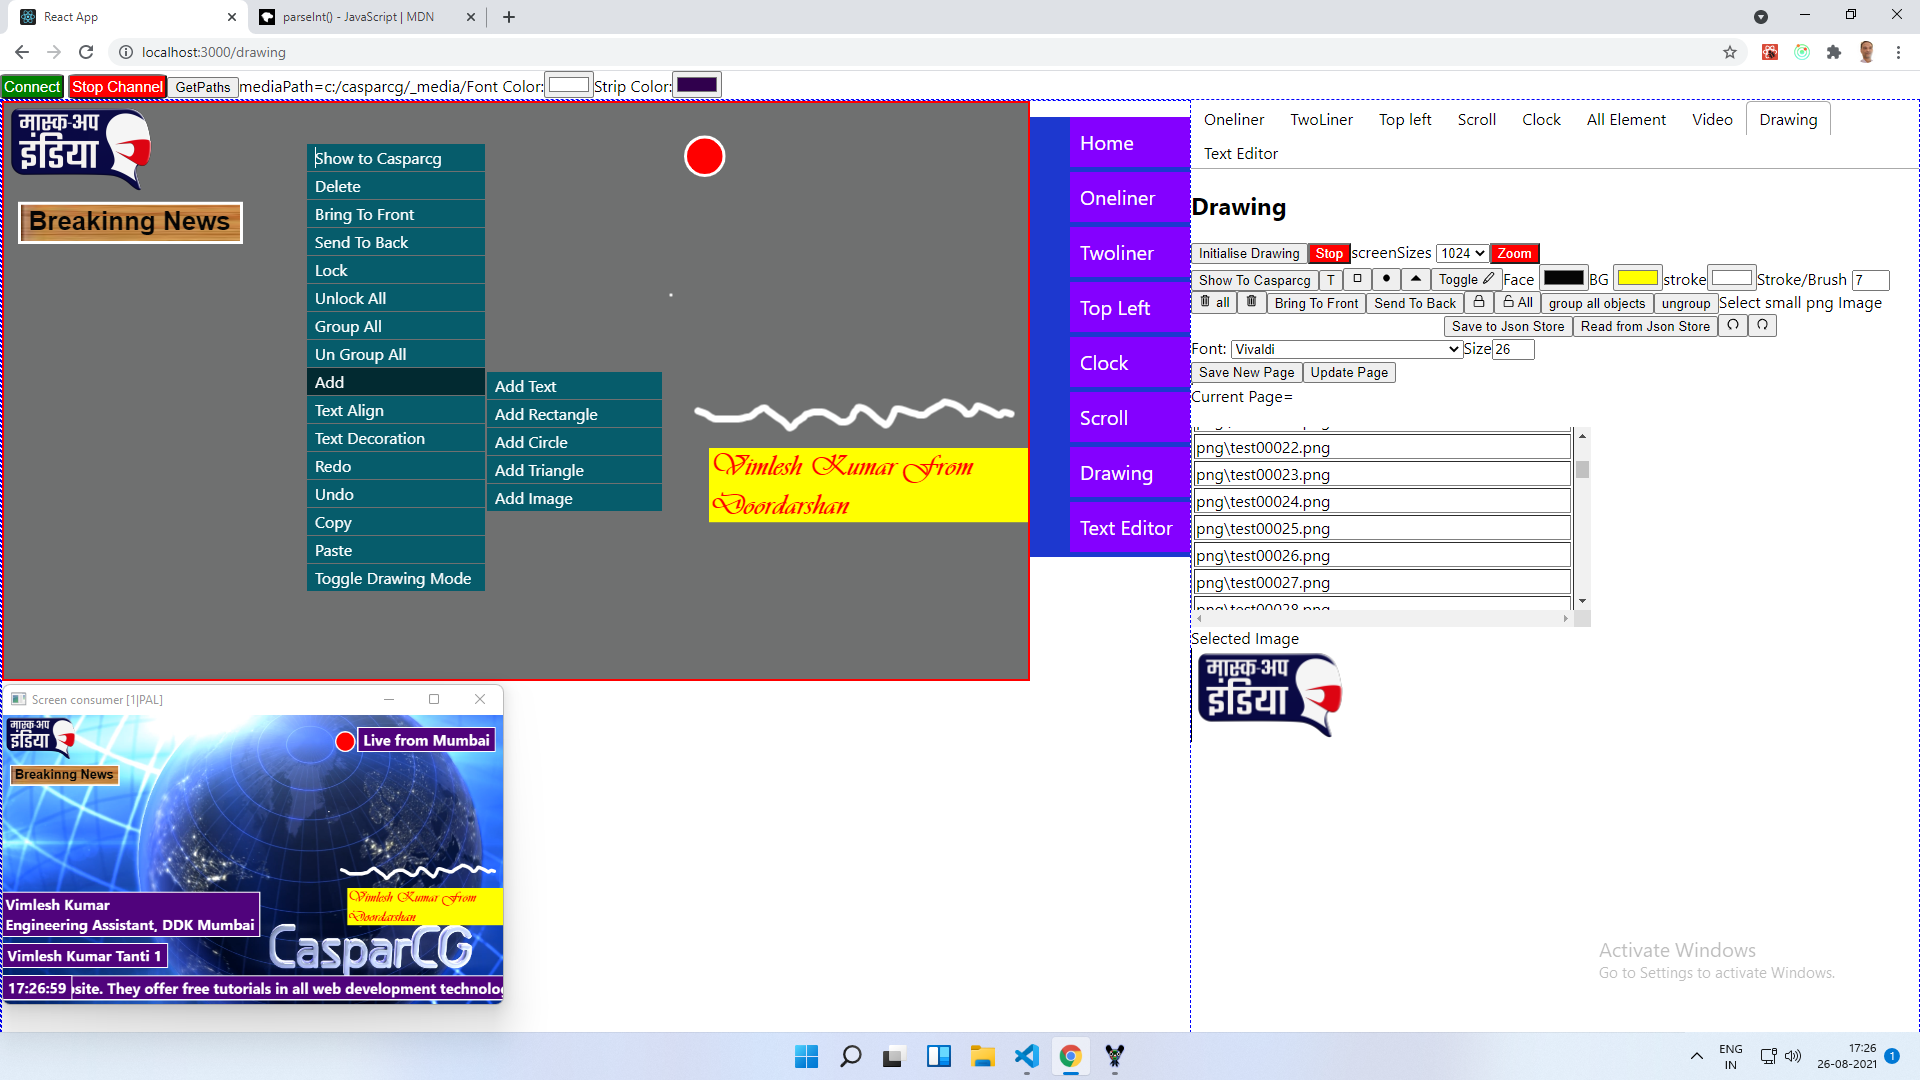
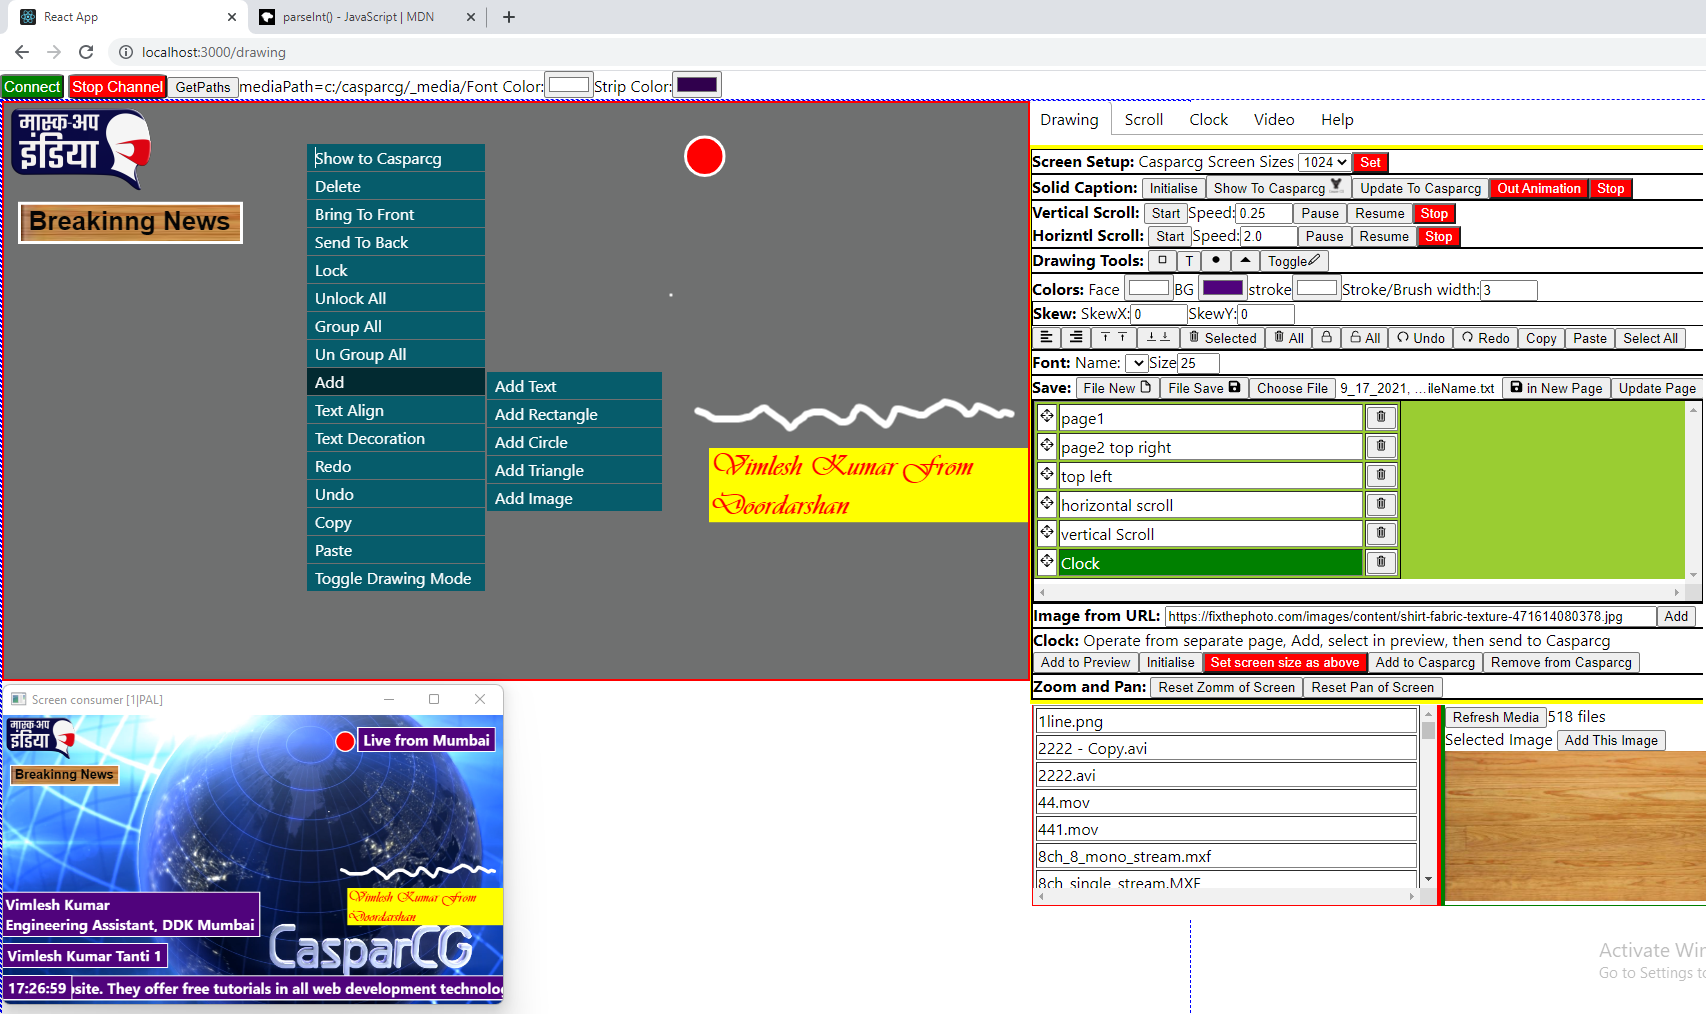
Removed  external clock

diff --git a/client/src/DrawingController.jsx b/client/src/DrawingController.jsx
@@ -644,6 +644,29 @@ const DrawingController = ({ chNumber }) => {
           }, 1);
         "`)
     }
+
+    const startClock = (canvas) => {
+        console.log(canvas.toSVG());
+        canvas.setViewportTransform([1, 0, 0, 1, 0, 0]);
+        selectAll(canvas);
+
+        endpoint(`play ${window.chNumber}-112 [HTML] xyz.html`);
+        endpoint(`call ${window.chNumber}-112 "
+        var aa = document.createElement('div');
+        aa.style.position='absolute';
+        aa.innerHTML='${(canvas.toSVG()).replaceAll('"', '\\"')}';
+        document.body.appendChild(aa);
+      
+        aa.style.zoom=(${currentscreenSize * 100}/1024)+'%';
+        document.body.style.overflow='hidden';
+        var cc=document.getElementsByTagName('tspan')[0];
+
+        setInterval(() => {
+            var ss1 = new Date().toLocaleTimeString('en-US', { hour12: false, hour: 'numeric', minute: 'numeric', second: 'numeric' });
+         cc.textContent  =ss1;
+          }, 1000);
+        "`)
+    }
     const dispatch = useDispatch()
     // eslint-disable-next-line
     const canvasToJson = (canvas) => {
@@ -772,7 +795,12 @@ const DrawingController = ({ chNumber }) => {
                 <button onClick={() => endpoint(`call ${window.chNumber}-111 "speed=${horizontalSpeed}"`)}>Resume</button>
                 <button className='stopButton' onClick={() => endpoint(`stop ${window.chNumber}-111`)}>Stop</button>
             </div>
-
+            <div style={{ border: '1px solid black' }}>
+                <b>Clock: </b>
+                <button onClick={() => addClock(window.editor.canvas)}>Add to Preview</button>
+                <button onClick={() => startClock(window.editor.canvas)}>Show On Casparcg</button>
+                <button className='stopButton' onClick={() => endpoint(`stop ${window.chNumber}-112`)}>Stop</button>
+            </div>
             <div style={{ border: '1px solid black' }}>
                 <b> Drawing Tools: </b>
                 <button onClick={() => createRect(window.editor.canvas)}> <VscPrimitiveSquare /></button>
@@ -792,6 +820,11 @@ const DrawingController = ({ chNumber }) => {
                     <b> Skew: </b>
                     SkewX:<input style={{ width: '50px' }} onChange={e => onSkewXSizeChange(e)} type="number" id='skewX' min='-360' max='360' step='1' defaultValue='0' />
                     SkewY:<input style={{ width: '50px' }} onChange={e => onSkewYSizeChange(e)} type="number" id='skewX' min='-360' max='360' step='1' defaultValue='0' />
+                </div>
+                <div style={{ border: '1px solid black' }}>
+                    <b>Zoom and Pan: </b>
+                    <button onClick={() => window.editor.canvas.setZoom(1)}>Reset Zomm of Screen</button>
+                    <button onClick={() => window.editor.canvas.setViewportTransform([window.editor.canvas.getZoom(), 0, 0, window.editor.canvas.getZoom(), 0, 0])}>Reset Pan of Screen</button>
                 </div>
                 <div>
                     <button onClick={() => alignAllLeft()}><FaAlignLeft /></button>
@@ -899,77 +932,7 @@ const DrawingController = ({ chNumber }) => {
                         <button onClick={() => addImagefromUrl(window.editor.canvas, onlineImageUrl)}>Add</button>
 
                     </div>
-                    <div style={{ border: '1px solid black' }}>
-                        <b>Clock: </b>
-                        Operate from separate page, Add, select in preview, then send to Casparcg
-                        <br />
-                        <button onClick={() => addClock(window.editor.canvas)}>Add to Preview</button>
 
-                        <button onClick={() => {
-                            endpoint(`play ${window.chNumber}-120 [html] http://${window.location.host}${process.env.PUBLIC_URL}/drawing`);
-
-                        }} >Initialise</button>
-                        <button className='stopButton' onClick={() => endpoint(`call ${window.chNumber}-120 window.editor.canvas.setZoom(${currentscreenSize}/1024)`)}>Set screen size as above</button>
-                        <button onClick={() => {
-                            endpoint(`call ${window.chNumber}-120 "(editor.canvas.getObjects()).forEach(element => editor.canvas.remove(element))";`)
-                            savetoCasparcgStoreClock();
-                            if (!window.editor.canvas.getActiveObject() || (window.editor.canvas.getActiveObject()?.id !== 'clock1')) {
-                                var aa = window.editor.canvas.getObjects();
-                                aa.forEach(element => {
-                                    if ((element.type === 'textbox') && (element.id === 'clock1')) {
-                                        // alert(element.id)
-                                        window.editor.canvas.setActiveObject(element)
-                                    }
-                                });
-                            }
-                            setTimeout(() => {
-                                endpoint(`call ${window.chNumber}-120 "
-                        var ss1 = new Date().toLocaleTimeString('en-US', { hour12: false, hour: 'numeric', minute: 'numeric', second: 'numeric' });
-                        var sss = new fabric.Textbox(ss1,{
-                        'left':${window.editor.canvas.getActiveObject()?.left},
-                        'top':${window.editor.canvas.getActiveObject()?.top},
-                        'fontFamily':'${window.editor.canvas.getActiveObject()?.fontFamily}',
-                        'fontSize':${window.editor.canvas.getActiveObject()?.fontSize},
-                        'fontWeight':'${window.editor.canvas.getActiveObject()?.fontWeight}',
-                        'fill':'${window.editor.canvas.getActiveObject()?.fill}',
-                        'backgroundColor':'${window.editor.canvas.getActiveObject()?.backgroundColor}',
-                        'width':${window.editor.canvas.getActiveObject()?.width},
-                        'scaleX':${window.editor.canvas.getActiveObject()?.scaleX},
-                        'scaleY':${window.editor.canvas.getActiveObject()?.scaleY},
-                        'textAlign':'${window.editor.canvas.getActiveObject()?.textAlign}',
-                        'angle':${window.editor.canvas.getActiveObject()?.angle},
-                        'stroke':'${window.editor.canvas.getActiveObject()?.stroke}',
-                        'strokeWidth':${window.editor.canvas.getActiveObject()?.strokeWidth},
-                        'fontStyle':'${window.editor.canvas.getActiveObject()?.fontStyle}',
-                        'underline':${window.editor.canvas.getActiveObject()?.underline},
-                        'linethrough':${window.editor.canvas.getActiveObject()?.linethrough},
-                        'skewX':${window.editor.canvas.getActiveObject()?.skewX},
-                        'skewY':${window.editor.canvas.getActiveObject()?.skewY},
-                        'objectCaching':false,
-
-                    });
-                    editor.canvas.add(sss);
-                    editor.canvas.requestRenderAll();
-                    setInterval(() => {
-                        var ss2 = new Date().toLocaleTimeString('en-US', { hour12: false, hour: 'numeric', minute: 'numeric', second: 'numeric' });
-                        sss.set({'text': ss2});
-                        editor.canvas.requestRenderAll();
-                    }, 1000);
-
-                    "`);
-                            }, 1000);
-                        }}>Add to Casparcg</button>
-
-                        <button onClick={() => endpoint(`call ${window.chNumber}-120 "(editor.canvas.getObjects()).forEach(element => editor.canvas.remove(element))";`)}>Remove from Casparcg</button>
-
-                    </div>
-
-                    <div style={{ border: '1px solid black' }}>
-                        <b>Zoom and Pan: </b>
-                        <button onClick={() => window.editor.canvas.setZoom(1)}>Reset Zomm of Screen</button>
-                        <button onClick={() => window.editor.canvas.setViewportTransform([window.editor.canvas.getZoom(), 0, 0, window.editor.canvas.getZoom(), 0, 0])}>Reset Pan of Screen</button>
-
-                    </div>
                 </div>
             </div>
         </div>
